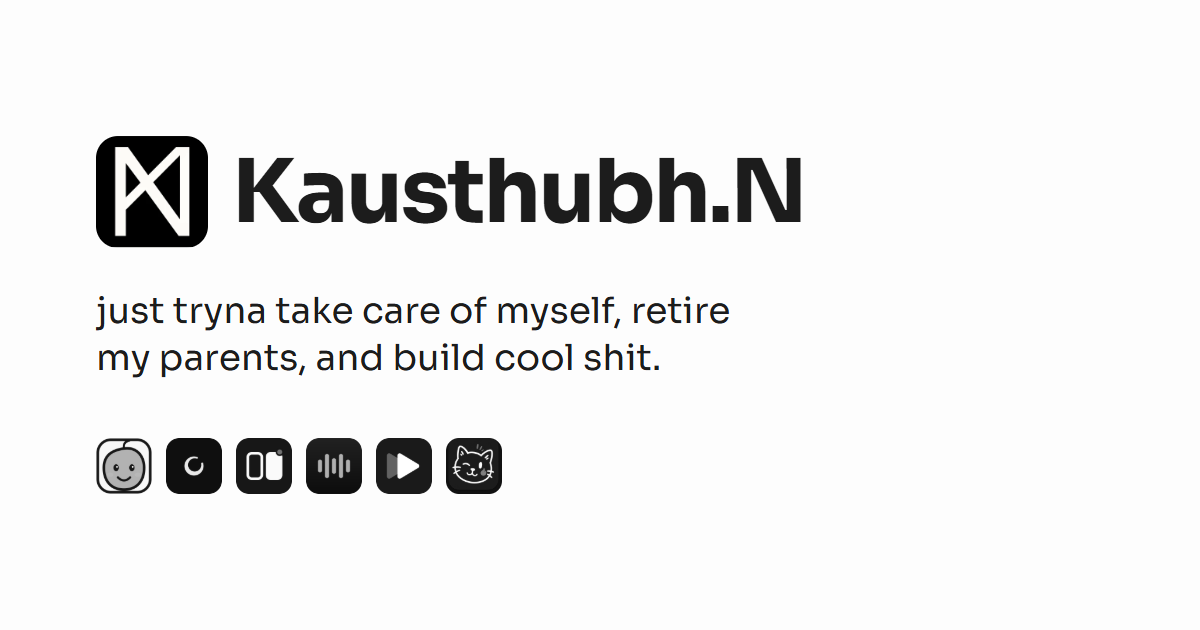
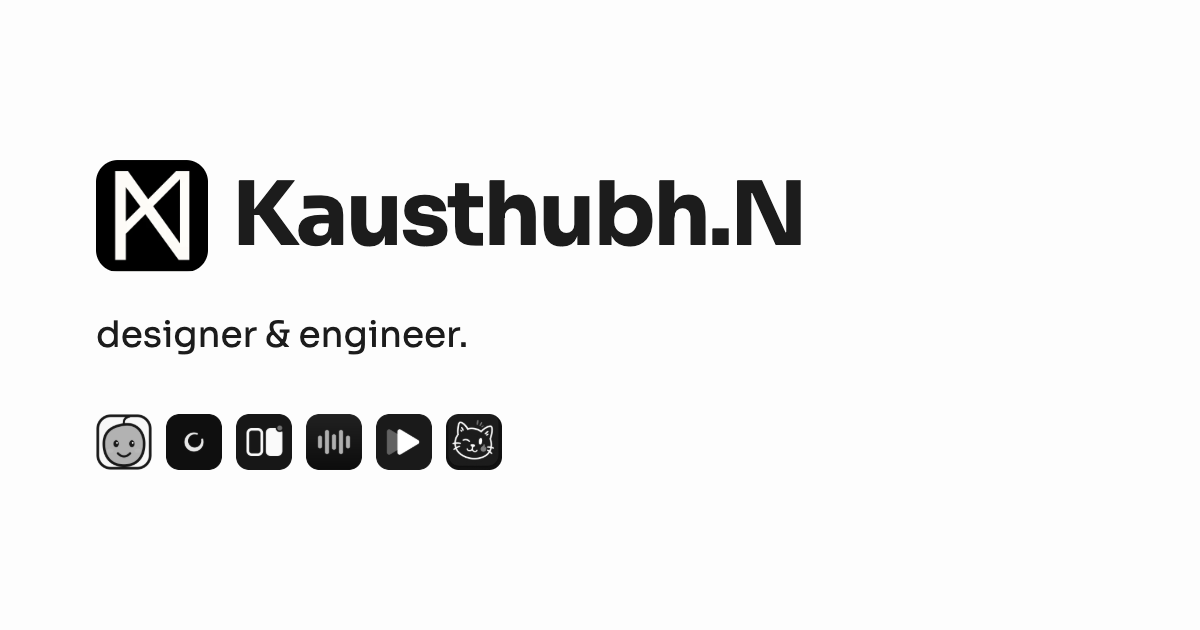
Say designer & engineer under the name
The home subline and the share image now read "designer & engineer."
instead of "just tryna take care of myself, retire my parents, and build
cool shit." AGENTS.md and PRODUCT.md drop the no-title rule, since this
subline is now the one title on the site.

Changed region(s): [[0.0617, 0.2111, 0.6783, 0.4524], [0.0617, 0.4524, 0.6167, 0.6032], [0.0617, 0.6333, 0.4317, 0.7841]]

diff --git a/PRODUCT.md b/PRODUCT.md
@@ -4,7 +4,7 @@ Updated: 2026-09-17
 
 ## What this is
 
-A compact, kinetic personal site for Kausthubh N. It is a first impression, an index of favorite projects, and a way to get in touch. It is not a resume, and it does not pin Kausthubh to a role or a job title: the work is the pitch.
+A compact, kinetic personal site for Kausthubh N. It is a first impression, an index of favorite projects, and a way to get in touch. It is not a resume: one plain subline says what he does, and the work is the pitch.
 
 ## Who it is for
 

diff --git a/AGENTS.md b/AGENTS.md
@@ -26,7 +26,7 @@ A cloud VM (Claude Code on the web, Codex Cloud) is Linux with a bare clone. The
 
 ## Rules
 
-- Never give Kausthubh a job title or role, anywhere.
+- The home subline ("designer & engineer.") is the only title or role. Don't add others.
 - Keep the home intro animation.
 - No placeholder or "coming soon" pages. Unreleased things get a line inside a real page, not their own page.
 - Copy is plain and lowercase, in Kausthubh's voice, not marketing polish.
